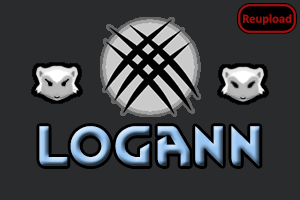
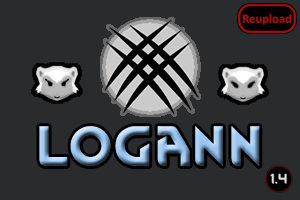
Last update, added end-of-life message

Changed region(s): [[0.87, 0.81, 0.99, 0.96]]

diff --git a/README.md b/README.md
@@ -7,7 +7,7 @@ https://steamcommunity.com/sharedfiles/filedetails/?id=2018389473
 
 - Added Royalty goodwill patch
 
-![Image](https://i.imgur.com/pufA0kM.png)
+![Image](https://i.imgur.com/KFjAmff.png)
 
 
 https://steamcommunity.com/sharedfiles/filedetails/?id=2288125657]![Image](https://i.imgur.com/kNldlMg.png)
@@ -36,12 +36,13 @@ The Logann are a wolverine(Mustelid) humanoid species.
 
 -  See if the the error persists if you just have this mod and its requirements active.
 -  If not, try adding your other mods until it happens again.
--  Post your error-log using https://steamcommunity.com/workshop/filedetails/?id=818773962]HugsLib and command Ctrl+F12
+-  Post your error-log using https://steamcommunity.com/workshop/filedetails/?id=818773962]HugsLib or the standalone https://steamcommunity.com/sharedfiles/filedetails/?id=2873415404]Uploader and command Ctrl+F12
 -  For best support, please use the Discord-channel for error-reporting.
 -  Do not report errors by making a discussion-thread, I get no notification of that.
 -  If you have the solution for a problem, please post it to the GitHub repository.
+-  Use https://github.com/RimSort/RimSort/releases/latest]RimSort to sort your mods
 
 
 
+https://steamcommunity.com/sharedfiles/filedetails/changelog/2263830774]![Image](https://img.shields.io/github/v/release/emipa606/LogannRace?label=latest%20version&style=plastic&color=9f1111&labelColor=black)
 
-https://steamcommunity.com/sharedfiles/filedetails/changelog/2263830774]Last updated 2023-01-09
